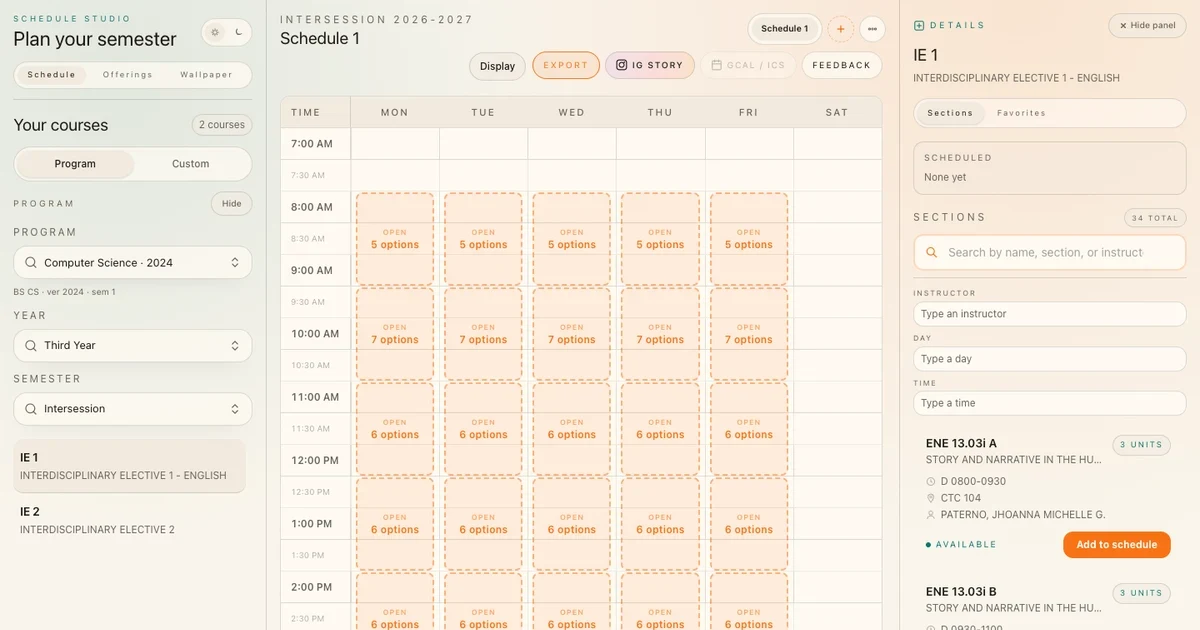
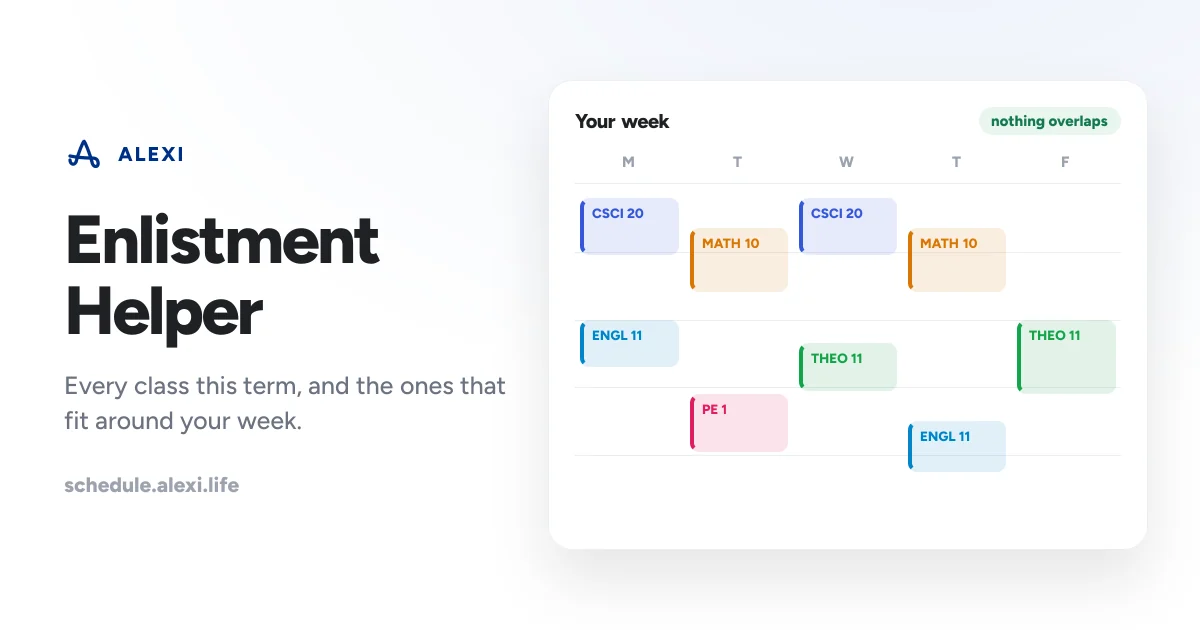
Add Bluefolio and Subtext, refresh project images
Bluefolio (verified, portfolio-first career network for the Ateneo
community) and Subtext (reply helper extension for Messenger and Instagram)
join the projects list as the top two entries; Bluefolio replaces the QPI
Calculator on the home grid.

Enlistment Helper and QPI Calculator get current card images, and the tech
stack map gains OpenAI, Chrome, esbuild, Playwright, and Vitest.

diff --git a/src/app/HomeClient.js b/src/app/HomeClient.js
@@ -44,9 +44,11 @@ const productCopy = {
   },
 };
 
-const featuredProjectOrder = ["hati", "one-big-match", "ateneo-qpi-calculator"];
+const featuredProjectOrder = ["bluefolio", "hati", "one-big-match"];
 
 const projectCopy = {
+  bluefolio:
+    "A verified, portfolio-first career network for the Ateneo community. One link per person.",
   hati: "200+ completed splits and 200k+ in shared expenses tracked after 156 downloads.",
   "one-big-match":
     "Led a 10-person team through 4 live event pilots and 80+ users.",
@@ -60,6 +62,8 @@ const projectCopy = {
 };
 
 const projectLabels = {
+  bluefolio: "Career network",
+  subtext: "Chrome extension",
   hati: "iOS app",
   "one-big-match": "Event product",
   "ateneo-qpi-calculator": "Campus tool",

diff --git a/src/lib/tech-stack.js b/src/lib/tech-stack.js
@@ -136,6 +136,29 @@ export const techStack = {
     name: "Convex",
     icon: "https://cdn.simpleicons.org/convex/EE342F",
   },
+  openai: {
+    name: "OpenAI",
+    icon: "https://cdn.simpleicons.org/openai/412991",
+  },
+  chrome: {
+    name: "Chrome Extension",
+    shortName: "Chrome",
+    icon: "https://cdn.simpleicons.org/googlechrome/4285F4",
+  },
+  esbuild: {
+    name: "esbuild",
+    icon: "https://cdn.simpleicons.org/esbuild/FFCF00",
+  },
+
+  // Testing
+  playwright: {
+    name: "Playwright",
+    icon: "https://cdn.simpleicons.org/playwright/2EAD33",
+  },
+  vitest: {
+    name: "Vitest",
+    icon: "https://cdn.simpleicons.org/vitest/6E9F18",
+  },
 };
 
 export function getTechLabel(tech) {

diff --git a/src/content/projects/bluefolio.md b/src/content/projects/bluefolio.md
@@ -1,0 +1,86 @@
+---
+slug: bluefolio
+title: Bluefolio
+tagline: >-
+  A verified, portfolio-first career network for the Ateneo community. Every
+  Atenean gets one link, with the work behind it.
+techStack:
+  - nextjs
+  - tailwind
+  - convex
+  - typescript
+  - vercel
+  - playwright
+  - vitest
+liveUrl: 'https://bluefolio.app'
+githubUrl: null
+image: /images/projects/bluefolio-featured.webp?v=20261003
+featured: true
+order: 1
+---
+
+## The gist
+
+Bluefolio gives every Atenean one link: `bluefolio.app/@yourname`.
+
+On that page: selected work with covers and the story behind each piece, experience, education, orgs and leadership, awards, and skills. Students and faculty are verified the moment they sign in with their Ateneo Google account. Alumni verify by uploading proof they studied at Ateneo, which an admin reviews.
+
+It launched publicly on October 3, 2026. Mine is at [bluefolio.app/@alexi](https://bluefolio.app/@alexi).
+
+Bluefolio is not affiliated with Ateneo de Manila University.
+
+## Why I built it
+
+Most of what students are proud of never makes it onto a résumé.
+
+The org project that actually shipped. The event you ran. The app with real users. The design work. A résumé has one line for each of those, if that. And when someone says "send me your portfolio," what they usually get is a Drive folder, a few links, and a long message explaining what each one is.
+
+I wanted the answer to "send me your portfolio" to be one link, and I wanted the people on it to be who they say they are.
+
+## Verification
+
+Verification is the whole point, so it had to be both easy and hard to fake.
+
+- **Students and faculty:** instant. Signing in with a `student.ateneo.edu` or `ateneo.edu` Google account is the proof. There's no "which describes you?" screen; the domain already answered it.
+- **Alumni:** no school email, so they sign in with any Google account and upload a diploma, alumni ID, or transcript. An admin reviews it. They can build their profile while it's pending; it goes live once approved. The uploaded document is served only to admins through an authenticated endpoint and is deleted once a decision is made.
+- **Students who graduate** keep their verified status when they switch to alumni, so they never need the document path.
+
+Once you're verified, your name locks to the one on your account or document. You can fix capitalization, drop a middle name, or lose the diacritics. You can't become someone else.
+
+![Bluefolio landing page](/images/projects/bluefolio-landing.webp)
+
+## Portfolio first, jobs later
+
+There's a full employer side built: verified employers, job posts that always show pay, no fees to applicants, an applicant pipeline, talent search, and teams with an org switcher.
+
+At launch, all of it is hidden behind an admin switch.
+
+An empty job board makes a site look dead. So Bluefolio launches as a portfolio tool, and the board turns on when there are real listings to put on it. Everything underneath is already there; only the switch is off.
+
+![A Bluefolio profile](/images/projects/bluefolio-profile.webp)
+
+## How it's built
+
+Next.js 16 on the App Router, Tailwind CSS 4, and Convex for the database, backend functions, file storage, and crons. Auth is Convex Auth with Google only; the account's domain is checked server-side at sign-in. Hosted on Vercel, with Vercel Web Analytics.
+
+Some of the parts I spent the most time on:
+
+- **A real design system.** Tokens from the design handoff are ported verbatim into CSS variables and exposed through Tailwind. No hard-coded colours or sizes outside the tokens.
+- **Visual parity tests.** Playwright renders each screen and the matching design artboard at the same size, desktop and mobile, light and dark, and saves them side by side. Differences get fixed before a screen is done.
+- **An image cropper with live preview** for covers and photos, so what you see while cropping is what the page shows.
+- **Link previews per profile.** Every public profile gets its own generated share image: logo, name with the verified check, course, headline, and work thumbnails. Unpublished or private profiles get a plain brand card, never the person's details.
+- **A security pass before launch.** Security headers on every route, a content security policy that's enforced for the rules nothing can trip over and report-only for the rest, and authorization checked in Convex on every function rather than in the UI.
+
+![The image cropper](/images/projects/bluefolio-cropper.webp)
+
+## What I learned
+
+This is the biggest thing I've shipped, and the part that took longest wasn't a feature. It was deciding what not to show.
+
+The job board is the most "complete product" part of Bluefolio, and it's the part nobody sees on day one. Holding it back felt wrong until I imagined opening the site as a student and finding zero listings. Launching smaller than what's built is a choice I'd make again.
+
+The other lesson is that verification shapes everything downstream. Once names are locked and accounts are real, every other feature can trust its inputs. That's worth the friction of an admin queue.
+
+![The admin verification queue](/images/projects/bluefolio-admin.webp)
+
+Bluefolio is live at [bluefolio.app](https://bluefolio.app).

diff --git a/src/content/projects/subtext.md b/src/content/projects/subtext.md
@@ -1,0 +1,74 @@
+---
+slug: subtext
+title: Subtext
+tagline: >-
+  A Chrome extension for the messages you don't know how to answer. A quiet
+  read of what they meant, and a reply in your own voice, inside Messenger and
+  Instagram.
+techStack:
+  - typescript
+  - chrome
+  - openai
+  - convex
+  - nextjs
+  - esbuild
+liveUrl: 'https://getsubtext.chat'
+githubUrl: null
+image: /images/projects/subtext-featured.webp?v=20261003
+featured: true
+order: 2
+---
+
+## The gist
+
+Subtext is a Chrome extension for Messenger and Instagram DMs, direct and group chats.
+
+When a reply is hard to read, open its ⋯ menu and choose **Read with Subtext**. A small card appears under the message with a one-line read of what's going on and a reply written the way you text. If the first one isn't right, there are alternatives, including "no reply needed."
+
+It never sends, edits, or reacts to a message. Copy puts the suggested text on your clipboard. Sending it is still you.
+
+The site is at [getsubtext.chat](https://getsubtext.chat).
+
+## Why I built it
+
+Everyone has a message they've reread five times. "k." A "finally 😭" after you finally said the thing. A group chat with 80 unread and no idea if any of it is for you.
+
+The usual move is to screenshot the chat and paste it into another app. That loses the thread, loses who said what, and the reply comes back sounding like a chatbot. I wanted the help to live inside the chat, read the whole conversation, and sound like me.
+
+## What a reading actually is
+
+A reading is an estimate, not knowledge of what someone meant.
+
+Subtext reads the message in context: the last twelve messages by default, plus up to four recent photos. In group chats it keeps the speakers straight and preserves quoted replies, and it doesn't assume every message is addressed to you. For automatic readings it waits for a pause in typing, so it reads a finished thought instead of half of one.
+
+Under the hood, an OpenAI model writes the interpretation and reply drafts with structured outputs, and TypeSafe's Jev model ranks the options. The reply matches your own sent messages: length, punctuation, emoji, and Taglish if that's how you text.
+
+## Private by default
+
+Most of the design went into what Subtext *doesn't* do.
+
+- It only reads a conversation when you ask. Automatic help is a separate switch, per chat, and off unless you turn it on.
+- It only reads messages the page has already loaded and images it can access. There are no private platform APIs.
+- Chat memory stays in your browser. You can see what it remembers, clear one chat, or clear everything.
+- Per-contact notes, per-site switches, a never-read list for people it should leave alone, and a one-hour pause.
+- On the server, inputs are kept in encrypted temporary storage and expire after fifteen minutes; results after a day.
+
+![The Subtext popup with privacy controls](/images/projects/subtext-popup.webp)
+
+## How it's built
+
+A Chrome MV3 extension in TypeScript, built with esbuild and plain DOM. Site adapters do read-only parsing of Messenger and Instagram markup; the content script renders the card in a shadow DOM; a service worker owns the pipeline, cache, and the trust boundary between tabs. The backend is Convex with Google sign-in, and the site is Next.js on Vercel.
+
+Free is five readings a day. Plus is unlimited with automatic help in the chats you choose. There's a one-time lifetime option for the first two hundred people.
+
+![A group chat where no reply is needed](/images/projects/subtext-group.webp)
+
+## What I learned
+
+The hard part wasn't the model. It was the page.
+
+Messenger and Instagram don't expose stable message IDs, and their markup changes between a direct chat, a group, and a quoted reply. Most of the bugs were in reading the DOM correctly: a quote the adapter didn't recognize, a photo stored as a data URL instead of a CDN link, a reaction that changed a message's fingerprint and made it look new. Each one became a failing test first, then a fix.
+
+The other lesson is about restraint. A reply helper that sends for you would be a worse product, not a more convenient one. Keeping a human on the send button is the feature.
+
+Subtext is at [getsubtext.chat](https://getsubtext.chat).

diff --git a/src/content/projects/ateneo-enlistment-helper.md b/src/content/projects/ateneo-enlistment-helper.md
@@ -9,9 +9,9 @@ techStack:
   - python
 liveUrl: 'https://schedule.alexi.life'
 githubUrl: 'https://github.com/itsalexi/Ateneo-Enlistment'
-image: /images/projects/ateneo-enlistment-helper-featured.webp?v=20260624
+image: /images/projects/ateneo-enlistment-helper-featured.webp?v=20261003
 featured: false
-order: 4
+order: 6
 ---
 
 #### **The Gist**

diff --git a/src/content/projects/ateneo-qpi-calculator.md b/src/content/projects/ateneo-qpi-calculator.md
@@ -9,9 +9,9 @@ techStack:
   - python
 liveUrl: null
 githubUrl: null
-image: /images/projects/ateneo-qpi-calculator-featured.webp?v=20260624
+image: /images/projects/ateneo-qpi-calculator-featured.webp?v=20261003
 featured: true
-order: 3
+order: 5
 ---
 
 #### **So, here's the deal.**

diff --git a/src/content/projects/portfolio-website.md b/src/content/projects/portfolio-website.md
@@ -12,7 +12,7 @@ liveUrl: "https://alexi.life"
 githubUrl: null
 image: /images/projects/portfolio-website-featured.webp?v=1762341726193
 featured: false
-order: 6
+order: 8
 ---
 
 #### **The Gist**

diff --git a/src/content/projects/tedx-admu.md b/src/content/projects/tedx-admu.md
@@ -11,7 +11,7 @@ liveUrl: 'https://tedxateneodemanilau.com'
 githubUrl: null
 image: /images/projects/tedx-admu-featured.webp?v=20260624
 featured: false
-order: 5
+order: 7
 ---
 #### **The Gist**
 

diff --git a/src/content/projects/one-big-match.md b/src/content/projects/one-big-match.md
@@ -12,7 +12,7 @@ liveUrl: 'https://onebigmatch.com'
 githubUrl: null
 image: /images/projects/one-big-match-featured.webp?v=20260624
 featured: true
-order: 2
+order: 4
 ---
 #### **The Gist**
 

diff --git a/src/content/projects/axie-ui.md b/src/content/projects/axie-ui.md
@@ -12,7 +12,7 @@ liveUrl: 'https://axie.alexi.life/'
 githubUrl: null
 image: /images/projects/axie-ui-featured.webp?v=20260624
 featured: false
-order: 7
+order: 9
 ---
 
 ## The gist

diff --git a/src/content/projects/hati.md b/src/content/projects/hati.md
@@ -14,7 +14,7 @@ liveUrl: 'https://hati.me/download'
 githubUrl: null
 image: /images/projects/hati-featured.webp?v=20260624
 featured: true
-order: 1
+order: 3
 ---
 
 ## The gist

diff --git a/src/content/projects/misa-registration-system.md b/src/content/projects/misa-registration-system.md
@@ -10,7 +10,7 @@ liveUrl: null
 githubUrl: null
 image: /images/projects/new-featured.webp?v=1762343476909
 featured: true
-order: 2
+order: 4
 ---
 #### **The Gist**
 
